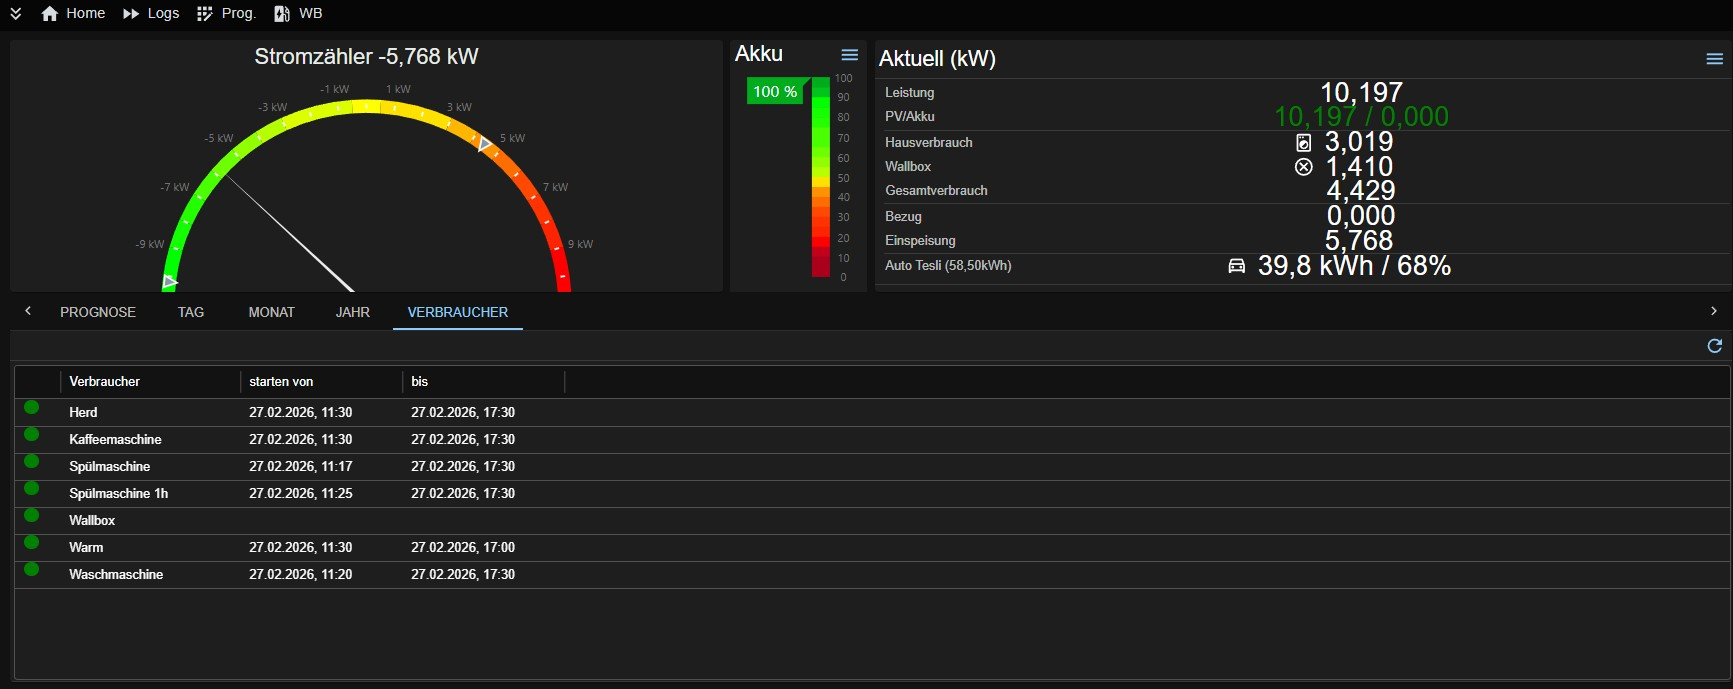
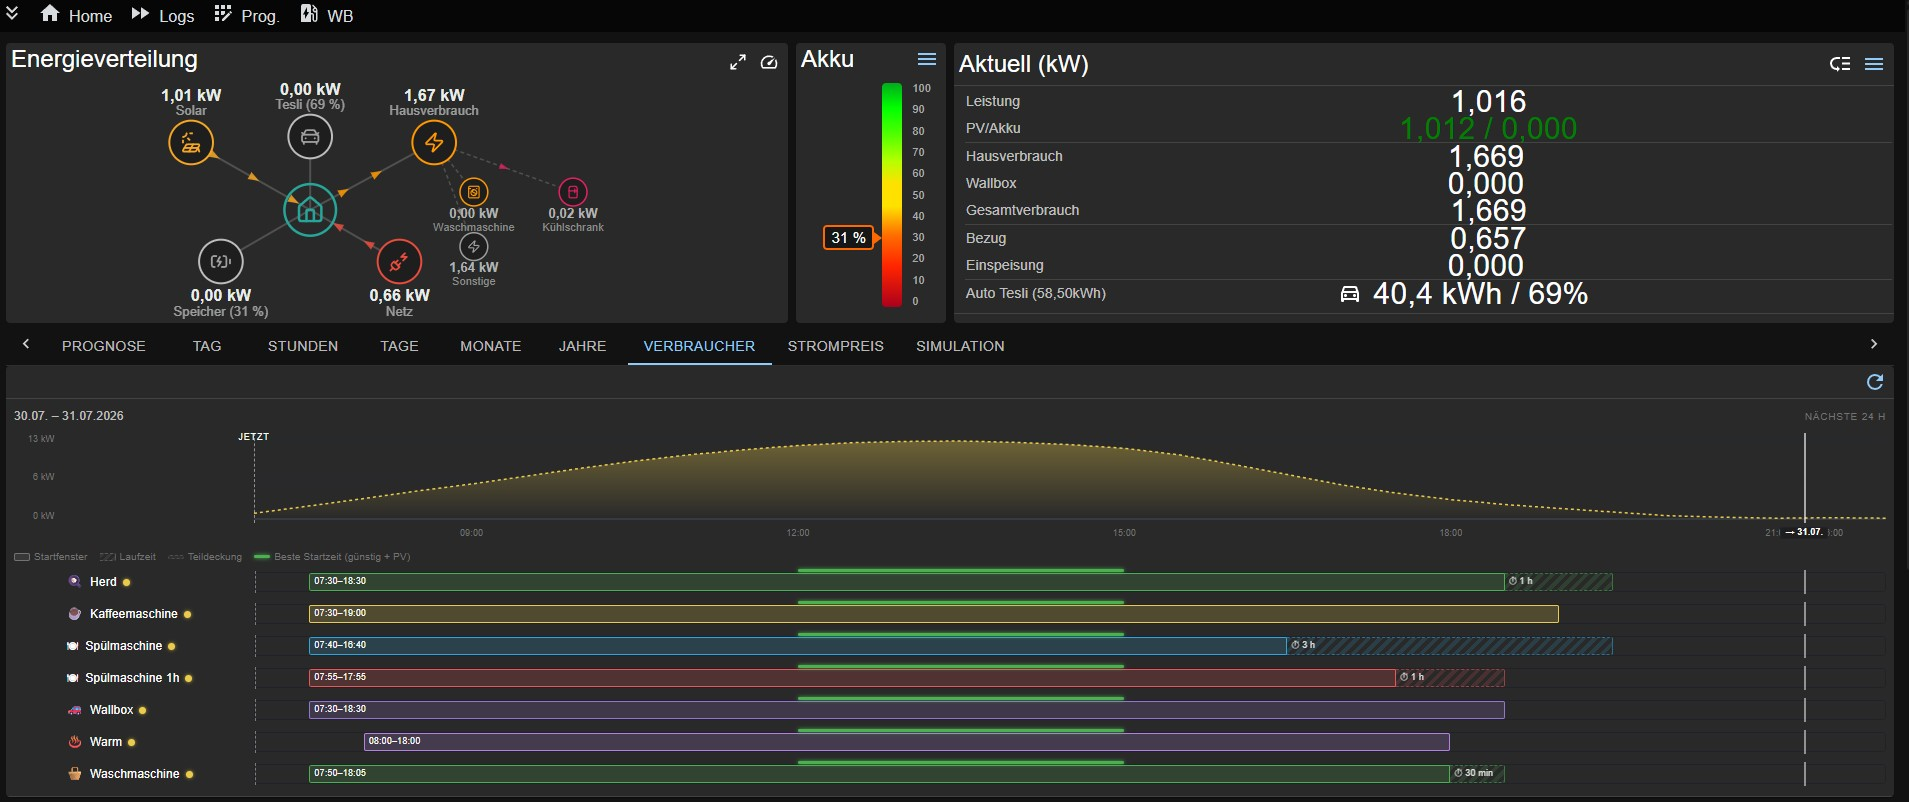
docs(readme): neue Screenshots ergänzt und Elli Charger 2 als Wallbox aufgeführt

diff --git a/README.md b/README.md
@@ -15,6 +15,14 @@
 | ![Auswertungen](images/Auswertungen.jpg) | **Auswertungen** — Monats- und Jahresvergleiche von PV-Leistung, Bezug, Einspeisung und Verbrauch |
 | ![Simulation](images/Simulation.jpg) | **Simulation** — Ladesimulation mit Prognose: Wie lange dauert die Ladung bei aktuellem Wetter? |
 | ![Einstellungen](images/Einstellungen.jpg) | **Einstellungen** — Konfiguration von PV-Anlagen, Akkus, Wallboxen, Autos, Verbrauchern und Prognosen |
+| ![Wetter- & Ertragsprognose](images/WetterAnzeige_MitPV.jpg) | **Wetter- & Ertragsprognose** — 7-Tage-Wetter mit erwartetem PV-Ertrag, Tagesdetail mit Peak, Niederschlag, UV-Index und Sonnenstunden; Prognose-Kurve gegen gemessene Erzeugung |
+| ![PV-Prognose](images/PVPrognose.jpg) | **PV-Prognose (Summen)** — Tagesübersicht Ist- gegen Prognose-kWh inklusive P10-/P90-Bandbreite zur Bewertung der Prognosegüte |
+| ![Verbraucherprognose](images/Prognose_Verbraucher_PV.jpg) | **Verbraucherprognose** — beste Startzeit für Herd, Kaffeemaschine, Spülmaschine, Waschmaschine & Co. im Startfenster, Laufzeit und Teildeckung entlang der PV-Kurve |
+| ![Strompreise](images/Strompreise.jpg) | **Strompreise** — stündlicher Verlauf aus Arbeitspreis und sonstigen Kosten mit Ø-Linien und Jetzt-Marker |
+| ![Netzdienliches Laden](images/NetzdienlichesLaden.jpg) | **Preis & Netz – Plan-Vorschau** — stündlicher Plan über mehrere Tage: was Wallbox, Akku und Heizung tun, mit Preisklassifikation (günstig/normal/teuer), § 51 EEG und Lade-Ziel |
+| ![Hochrechnung](images/HochrechnungAnhandDerzeitiegerDaten.jpg) | **Hochrechnung** — Jahresvergleiche inklusive Hochrechnung künftiger Jahre auf Basis der bisher gemessenen Daten |
+| ![Eigene Dashboards](images/ErzeugenEigenerDashboards.jpg) | **Eigene Dashboards (Boards)** — Widget-Katalog, Drag & Drop, Größen- und Stil-Anpassung pro Widget |
+| ![Alternatives Design](images/AlternativesDesign_Dashboard.jpg) | **Alternatives Dashboard-Design** — kompakte Kachel-Ansicht mit Energiefluss, Live-Kennzahlen und Tagesverlauf in einem Bild |
 
 ---
 
@@ -41,7 +49,7 @@
 | Kategorie | Hersteller / Protokoll |
 |-----------|------------------------|
 | **PV-Wechselrichter** | Huawei (Modbus / FusionSolar), SMA, SunSpec, Fronius, Kostal Plenticore, GoodWe, SolarEdge, Growatt, LG ESS Home, Shelly (BKW), Solaranzeige |
-| **Wallboxen** | go-eCharger, Easee, OCPP 1.6/2.0, SunSpec (Modbus), Keba, Fronius Wattpilot, Mennekes, Webasto, Hardy Barth, Heidelberg |
+| **Wallboxen** | go-eCharger, Easee, OCPP 1.6/2.0, SunSpec (Modbus), Keba, Fronius Wattpilot, Mennekes, Webasto, Hardy Barth, Heidelberg, Elli Charger 2 (baugleich ID. Charger 2, Škoda Charger, CUPRA Charger 2) |
 | **Batteriespeicher** | Marstek, Huawei, SMA, SunSpec (Modell 124), LG ESS, Ecoflow |
 | **Elektrofahrzeuge** | Tesla, BMW, Hyundai, Kia, Mercedes, Opel, Peugeot, Citroën, DS, Renault, Manuell |
 | **Smart Home** | Shelly (Schalter, Dimmer, Energiezähler, Thermostat), MQTT |
